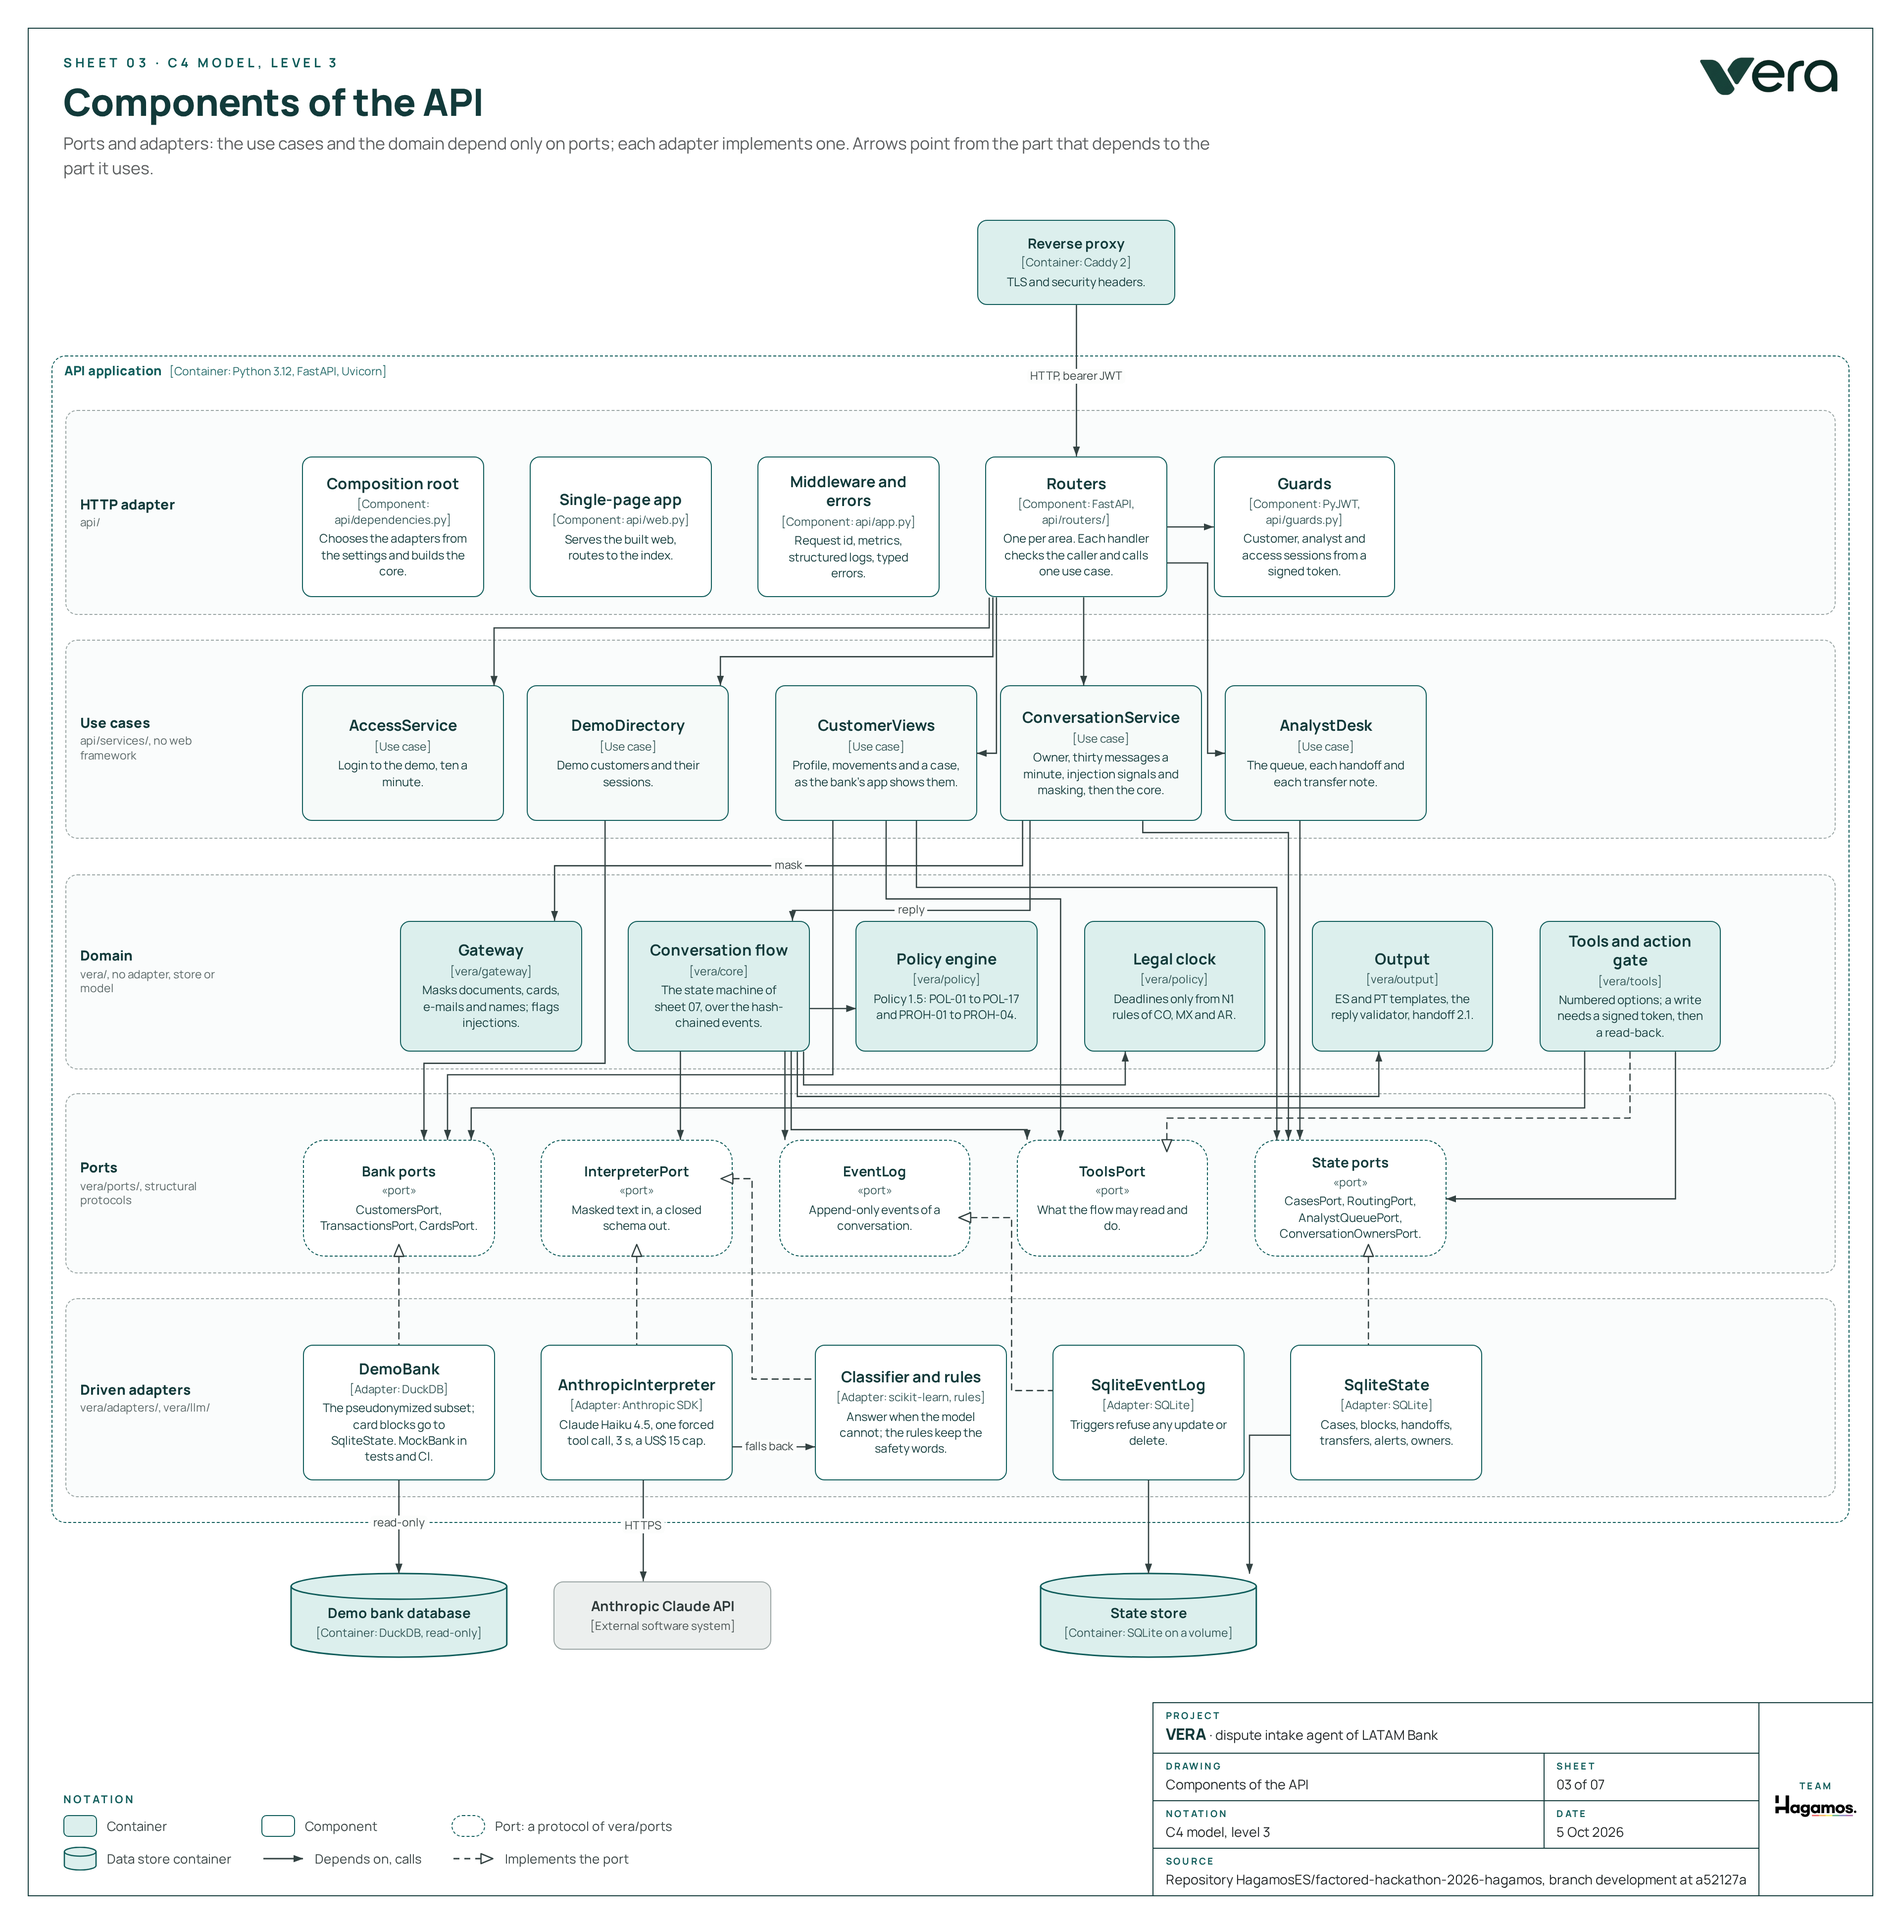
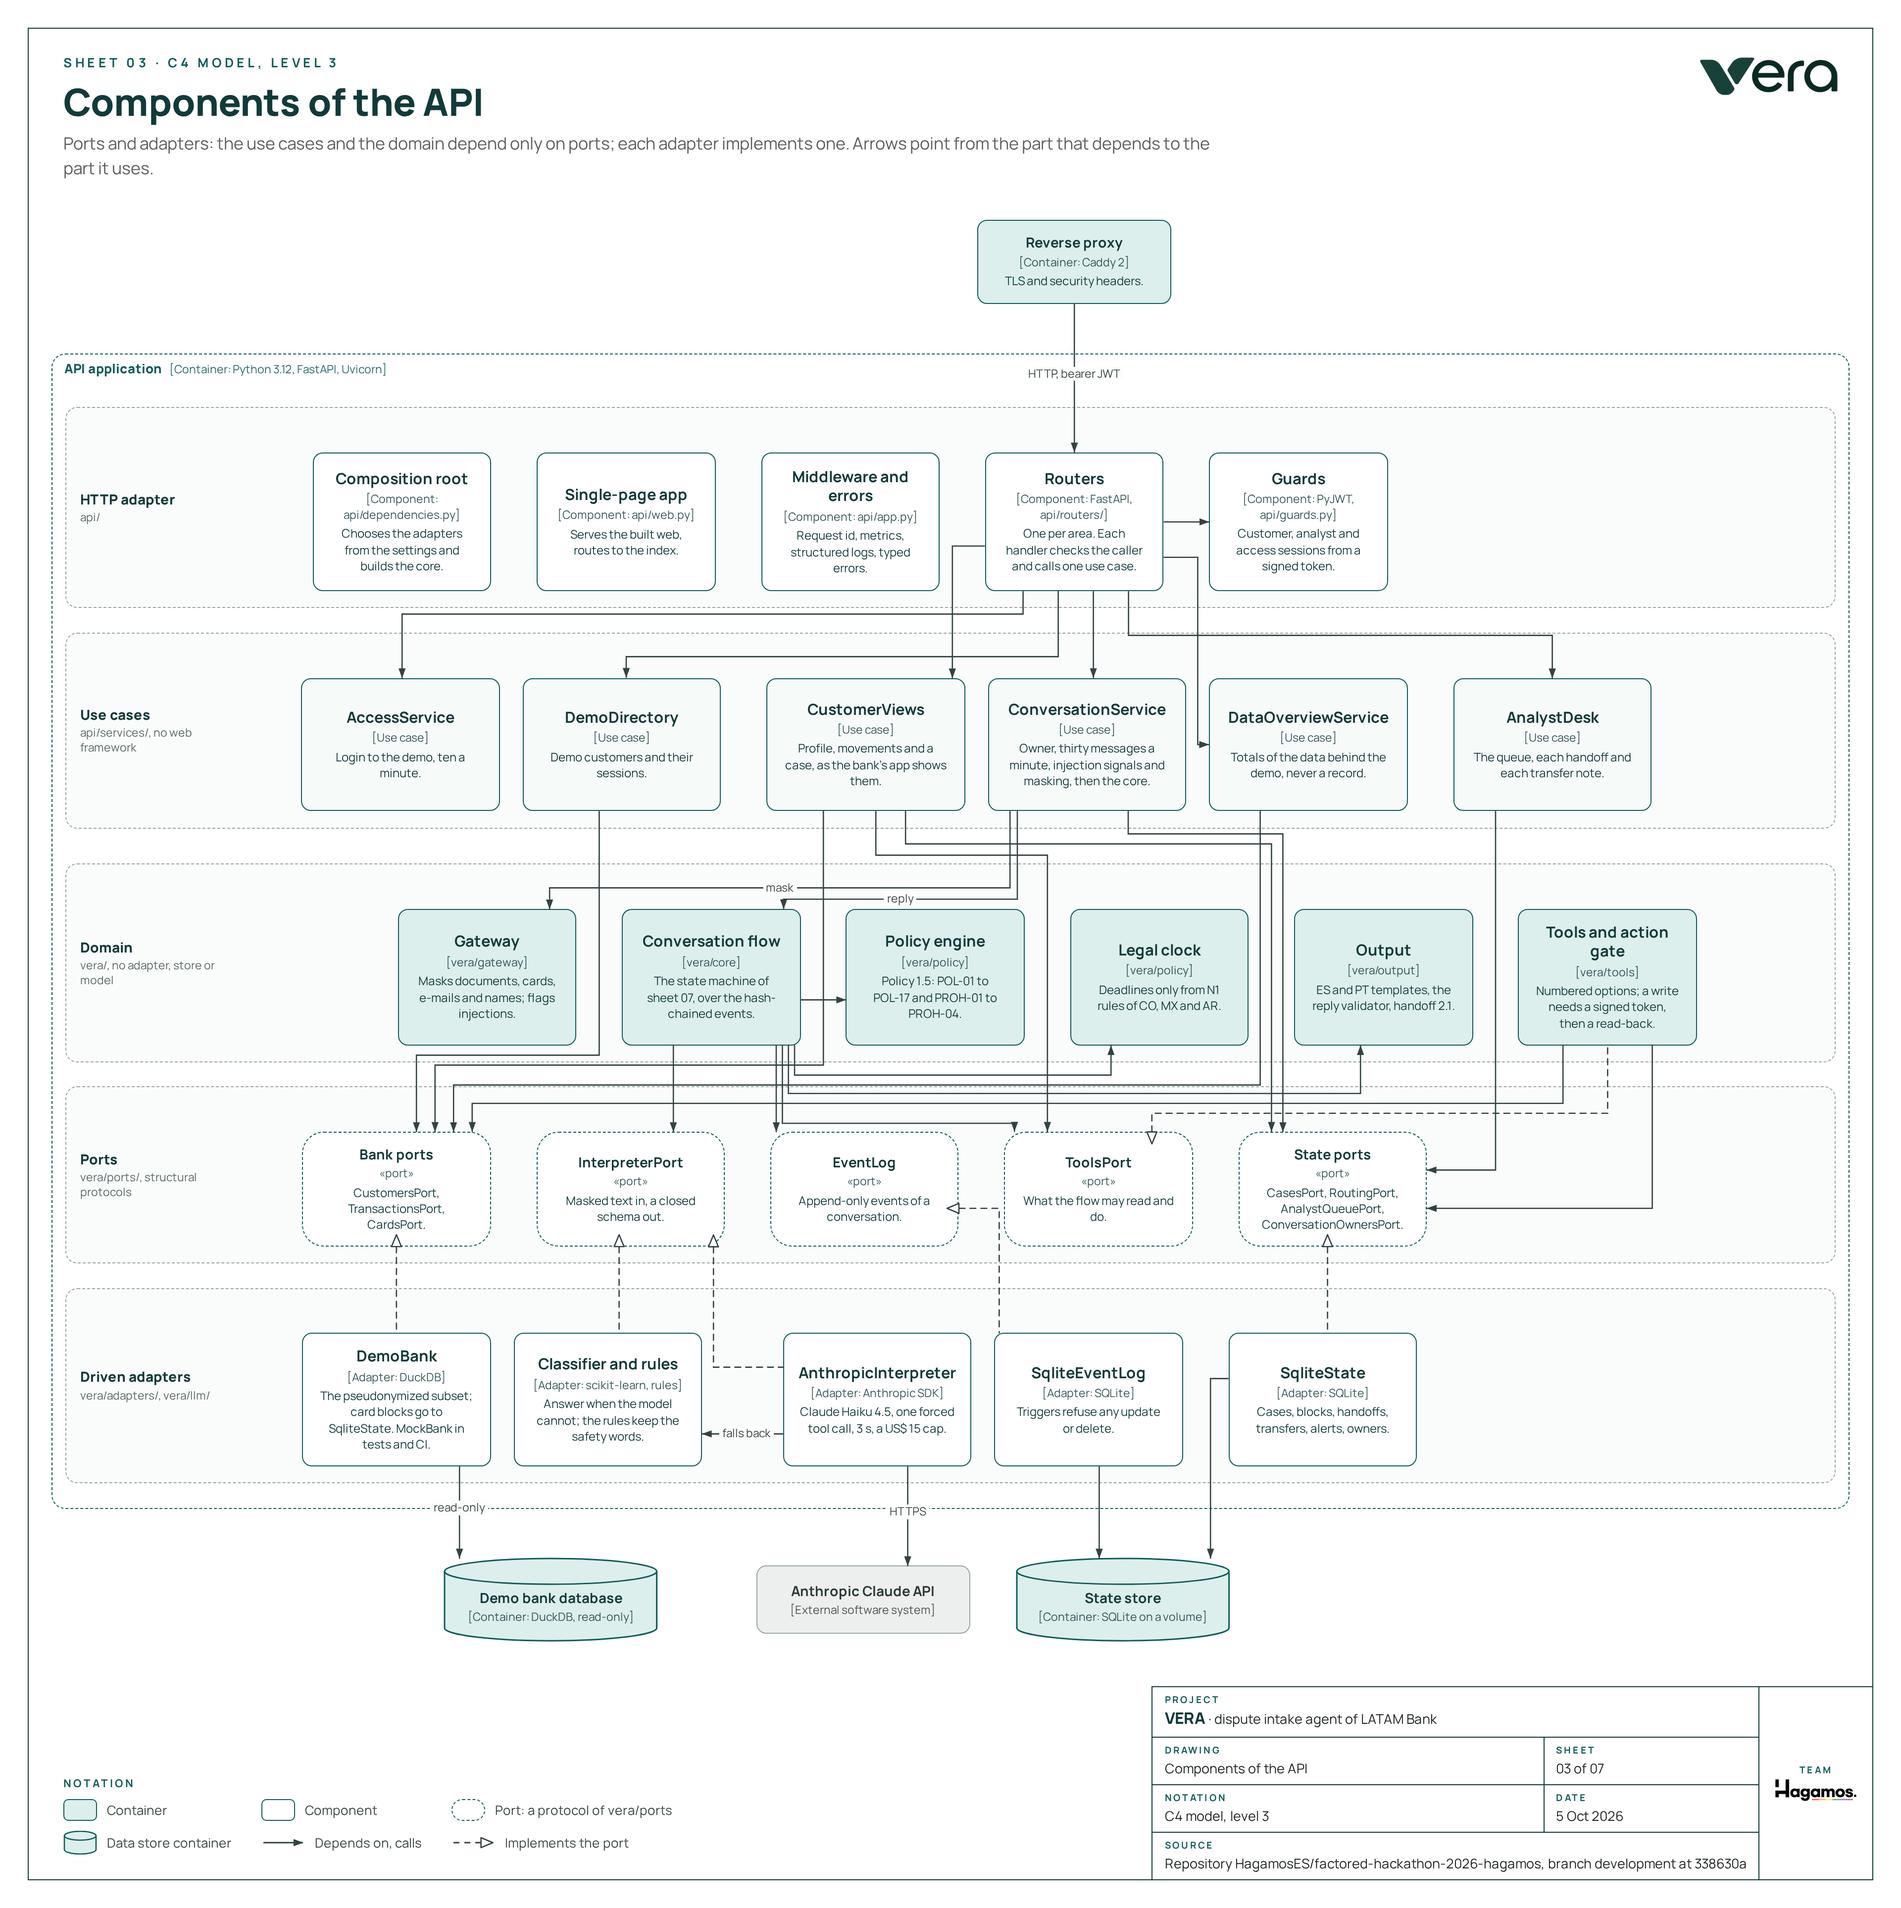
docs: the drawings with the step of a blocked card and the data overview use case

diff --git a/README.md b/README.md
@@ -132,7 +132,7 @@ Each drawing uses a standard notation, the C4 model or UML 2.5, and carries a ti
 
 ![Sequence of a dispute of an unrecognized charge](docs/architecture/06_dispute_sequence.png)
 
-**7. Conversation states.** The 15 steps of the state machine and what moves each one on, with the stage the customer sees ([ADR 0009](docs/adr/0009-the-conversation-flow-in-step-modules.md)).
+**7. Conversation states.** The 16 steps of the state machine and what moves each one on, with the stage the customer sees ([ADR 0009](docs/adr/0009-the-conversation-flow-in-step-modules.md)).
 
 ![State machine of the conversation](docs/architecture/07_conversation_states.png)
 
